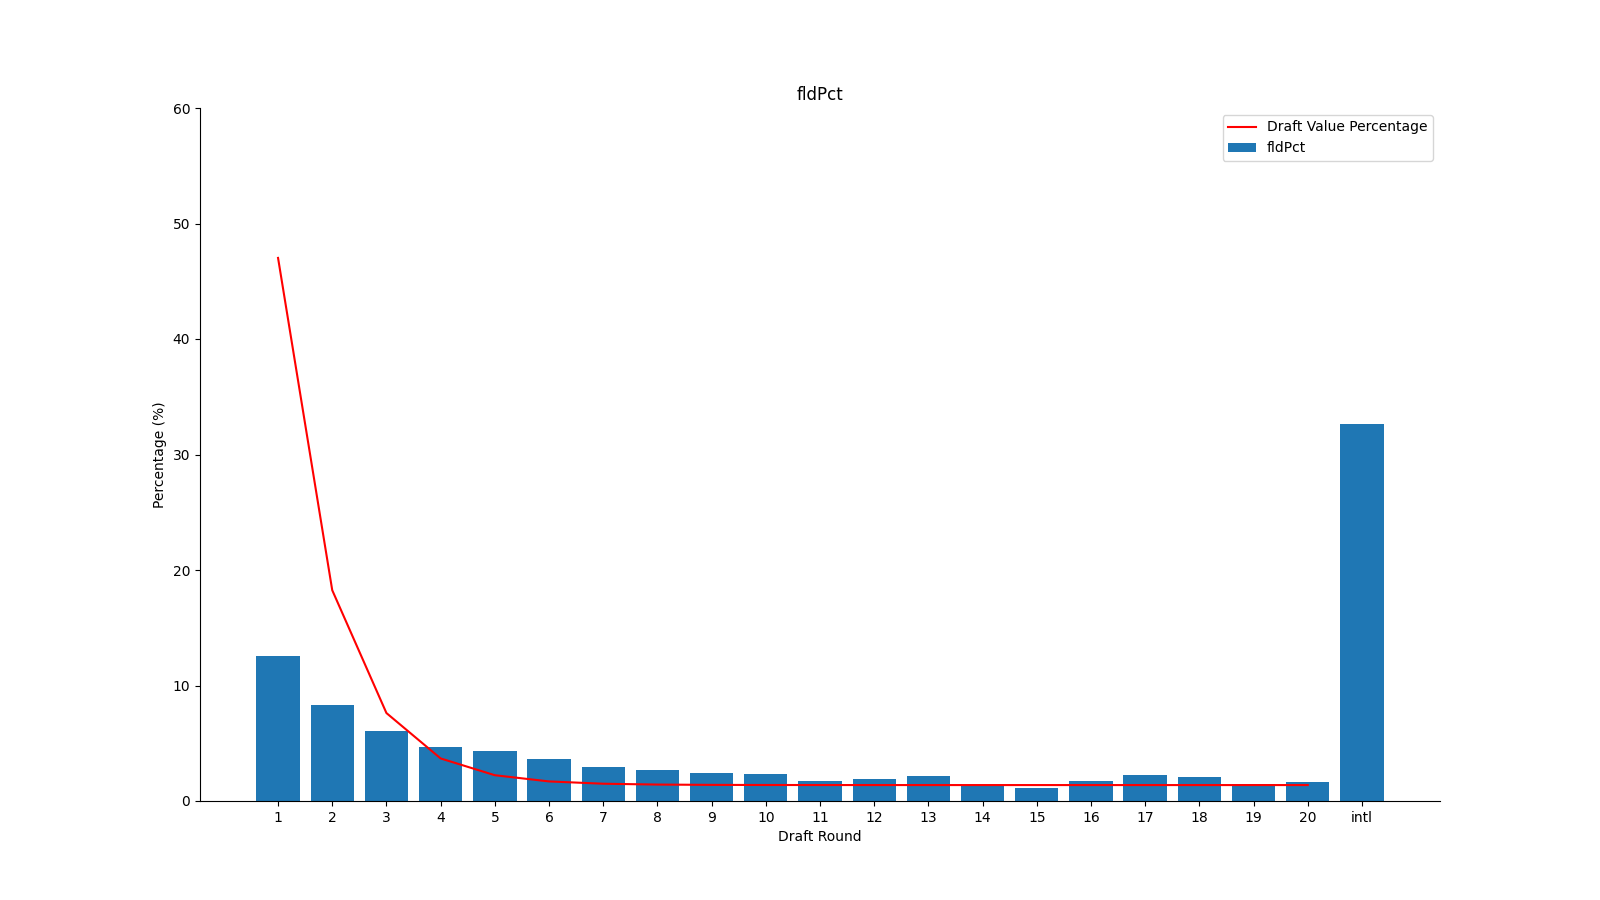
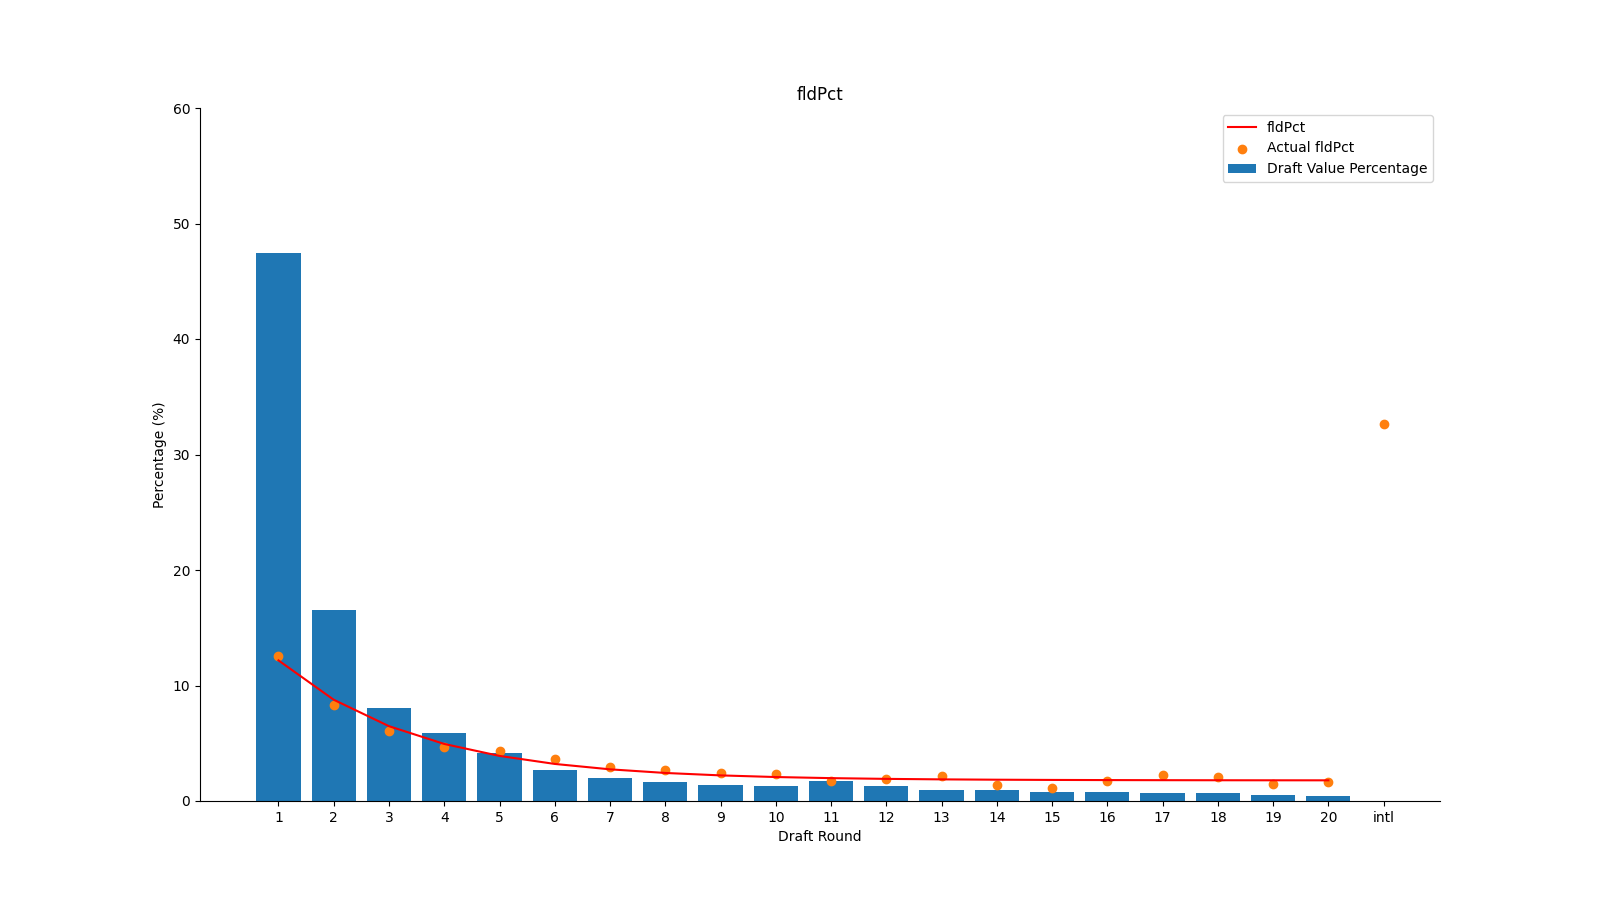
not sure

Changed region(s): [[0.1562, 0.28, 0.875, 0.9333], [0.75, 0.1244, 0.9062, 0.2178]]

diff --git a/pyplot/python_plotting/visualizer.py b/pyplot/python_plotting/visualizer.py
@@ -31,39 +31,40 @@ class Visualizer:
         
 
     def plot_stat(self, y_data, title, filename, isround, keys):
-        def inverse_exponential(x, a, b, c):
-            return a * np.exp(-b * x) + c
-        
-        x_data = range(0, len(y_data))
-        
-        monetary = sorted(list(self.per_round_player_value_pct.find() if isround else self.per_pick_player_value_pct.find()), key=sort)
-        x_mon = range(0, len(monetary))
-        y_mon = [d["pct"] * 100 for d in monetary]
-        
-        
-        popt, _ = curve_fit(inverse_exponential, x_mon, y_mon)
-        a_opt, b_opt, c_opt = popt
-        x_fit = np.linspace(min(x_mon), max(x_mon), len(x_mon))
-        y_fit = inverse_exponential(x_fit, a_opt, b_opt, c_opt)
-        
-        plt.plot(x_fit, y_fit, 'r-', label='Draft Value Percentage')
-        
-        plt.xlabel("Draft Round" if isround else "Draft Pick Number")
-        plt.ylabel("Percentage (%)")
-        plt.title(title)
-        
-        if isround:
-            plt.ylim(0, 60)
-            plt.xticks(range(len(keys)), keys)
-        else: 
-            plt.ylim(0, 10)
-            
-        plt.bar(x_data, y_data, label=title)
-    
-        plt.legend()
-        plt.savefig(f"{self.__img_dir}{'round' if isround else 'pick'}_{filename}.png")
-        self.clear()
-        plt.close()
+         def inverse_exponential(x, a, b, c):
+             return a * np.exp(-b * x) + c
+     
+         x_data = range(0, len(y_data))
+     
+         monetary = sorted(list(self.per_round_player_value_pct.find() if isround else self.per_pick_player_value_pct.find()), key=sort)
+         x_mon = range(0, len(monetary))
+         y_mon = [d["pct"] * 100 for d in monetary]
+     
+         
+         popt, _ = curve_fit(inverse_exponential, x_data[:-1], y_data[:-1])
+         a_opt, b_opt, c_opt = popt
+         x_fit = np.linspace(min(x_data[::-1]), max(x_data[:-1]), len(x_data[:-1]))
+         y_fit = inverse_exponential(x_fit, a_opt, b_opt, c_opt)
+     
+         plt.plot(x_fit, y_fit, 'r-', label=title)
+     
+         plt.xlabel("Draft Round" if isround else "Draft Pick Number")
+         plt.ylabel("Percentage (%)")
+         plt.title(title)
+     
+         if isround:
+             plt.ylim(0, 60)
+             plt.xticks(range(len(keys)), keys)
+         else: 
+             plt.ylim(0, 10)
+         
+         plt.bar(x_mon, y_mon, label='Draft Value Percentage')
+         plt.scatter(x_data, y_data, label=f"Actual {title}")
+ 
+         plt.legend()
+         plt.savefig(f"{self.__img_dir}{'round' if isround else 'pick'}_{filename}.png")
+         self.clear()
+         plt.close()
     
     def clear(self):
         plt.cla()
